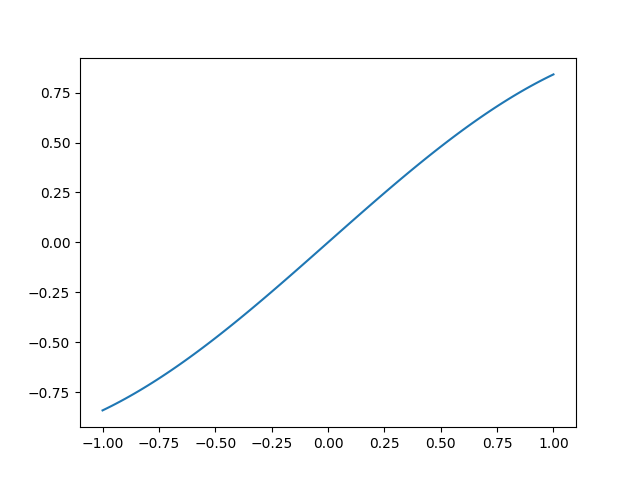
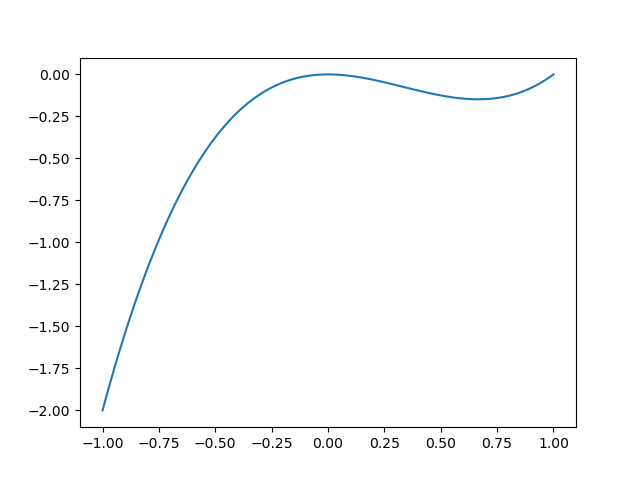
338220

diff --git a/pipeline/338220.py b/pipeline/338220.py
@@ -4,7 +4,7 @@ import numpy as np
 
 def plot_function():
 	x = np.linspace(-1, 1, 100)	# tutaj uzupełnij
-	y = np.sin(x)							# tutaj uzupełnij
+	y = x**3 - x**2							# tutaj uzupełnij
 	plt.figure()
 	plt.plot(x, y)
 	plt.savefig("../figures/twoj_numer_indeksu.png")
